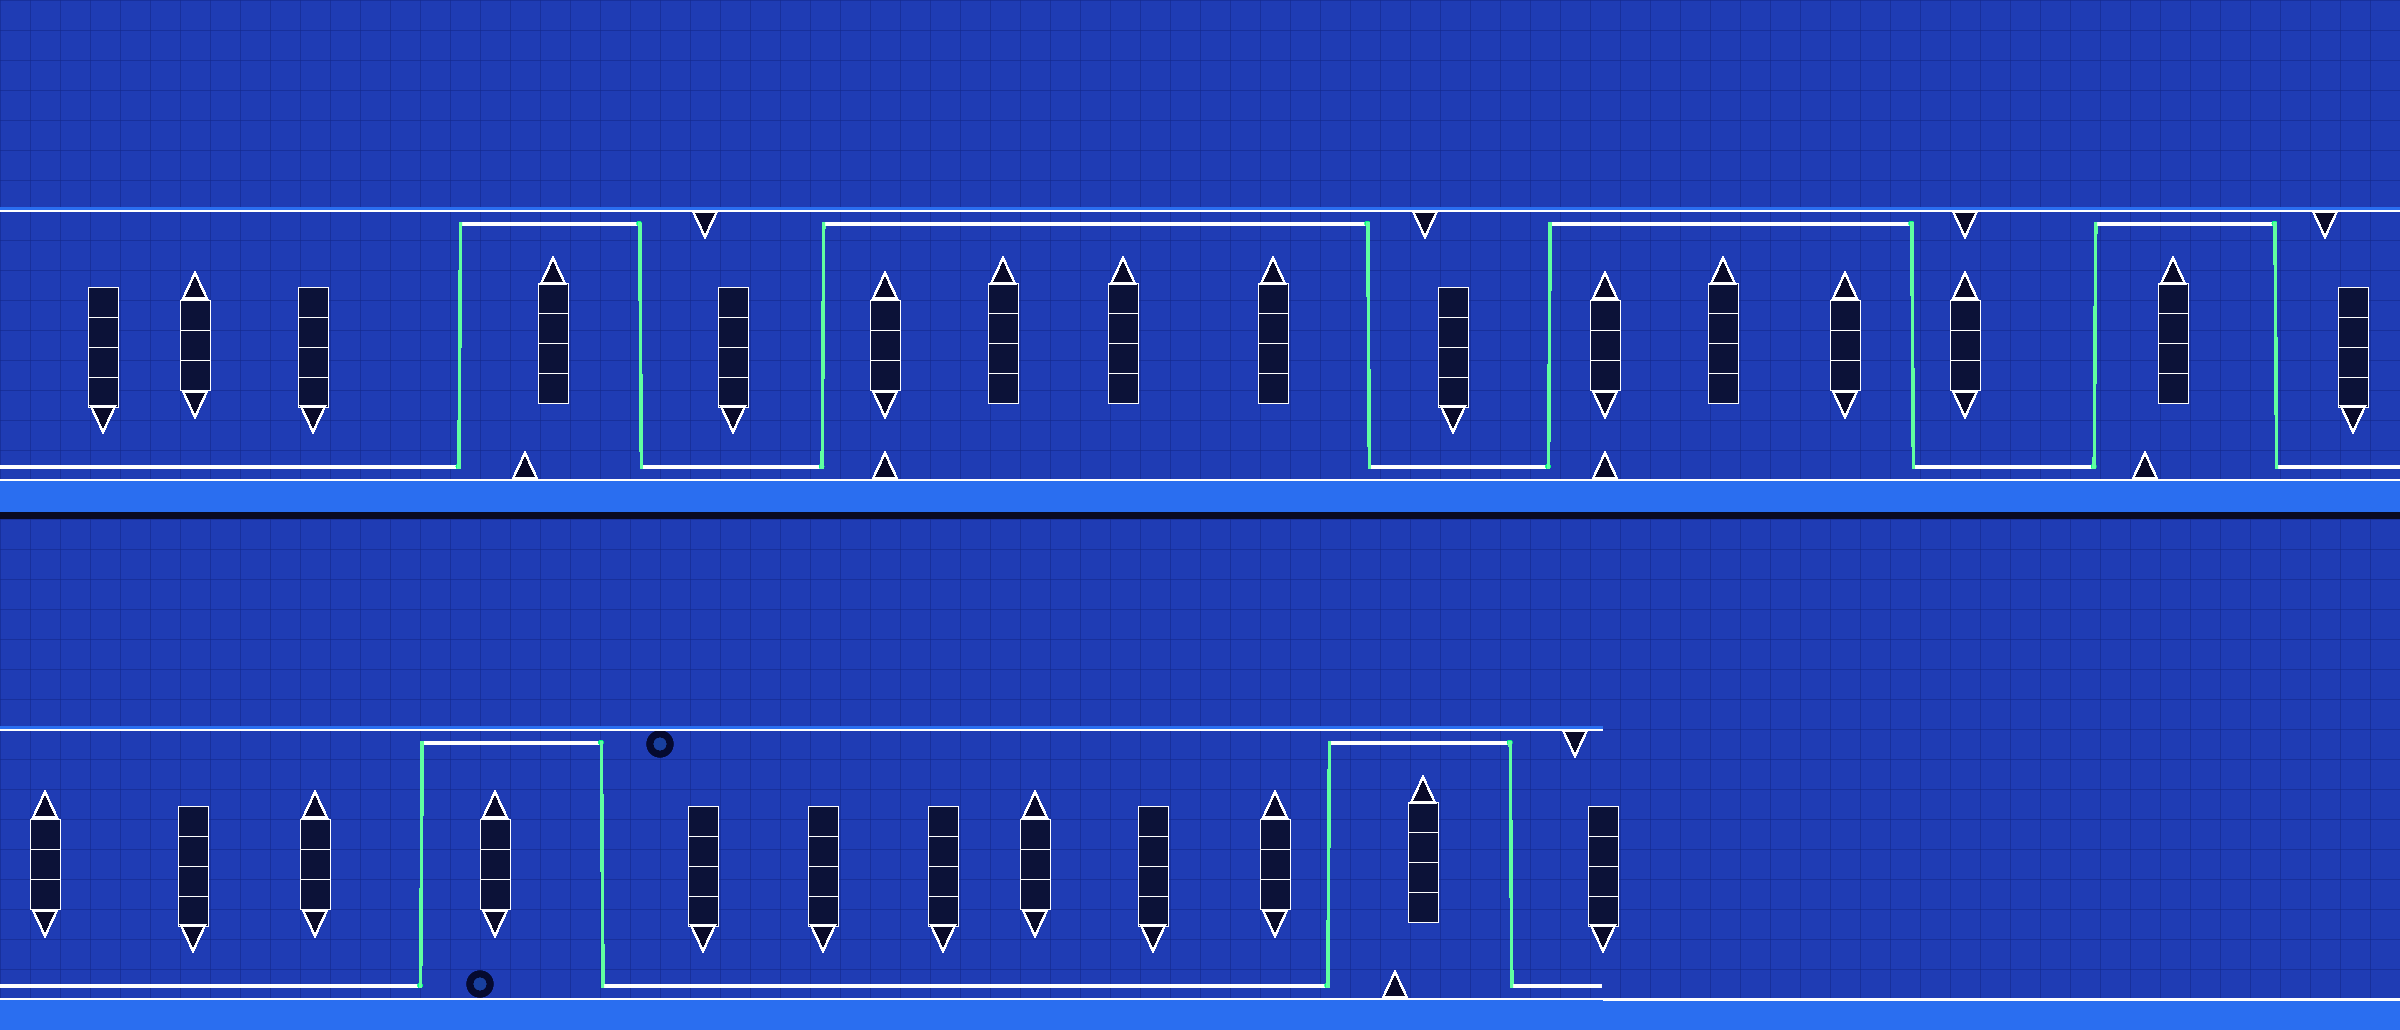
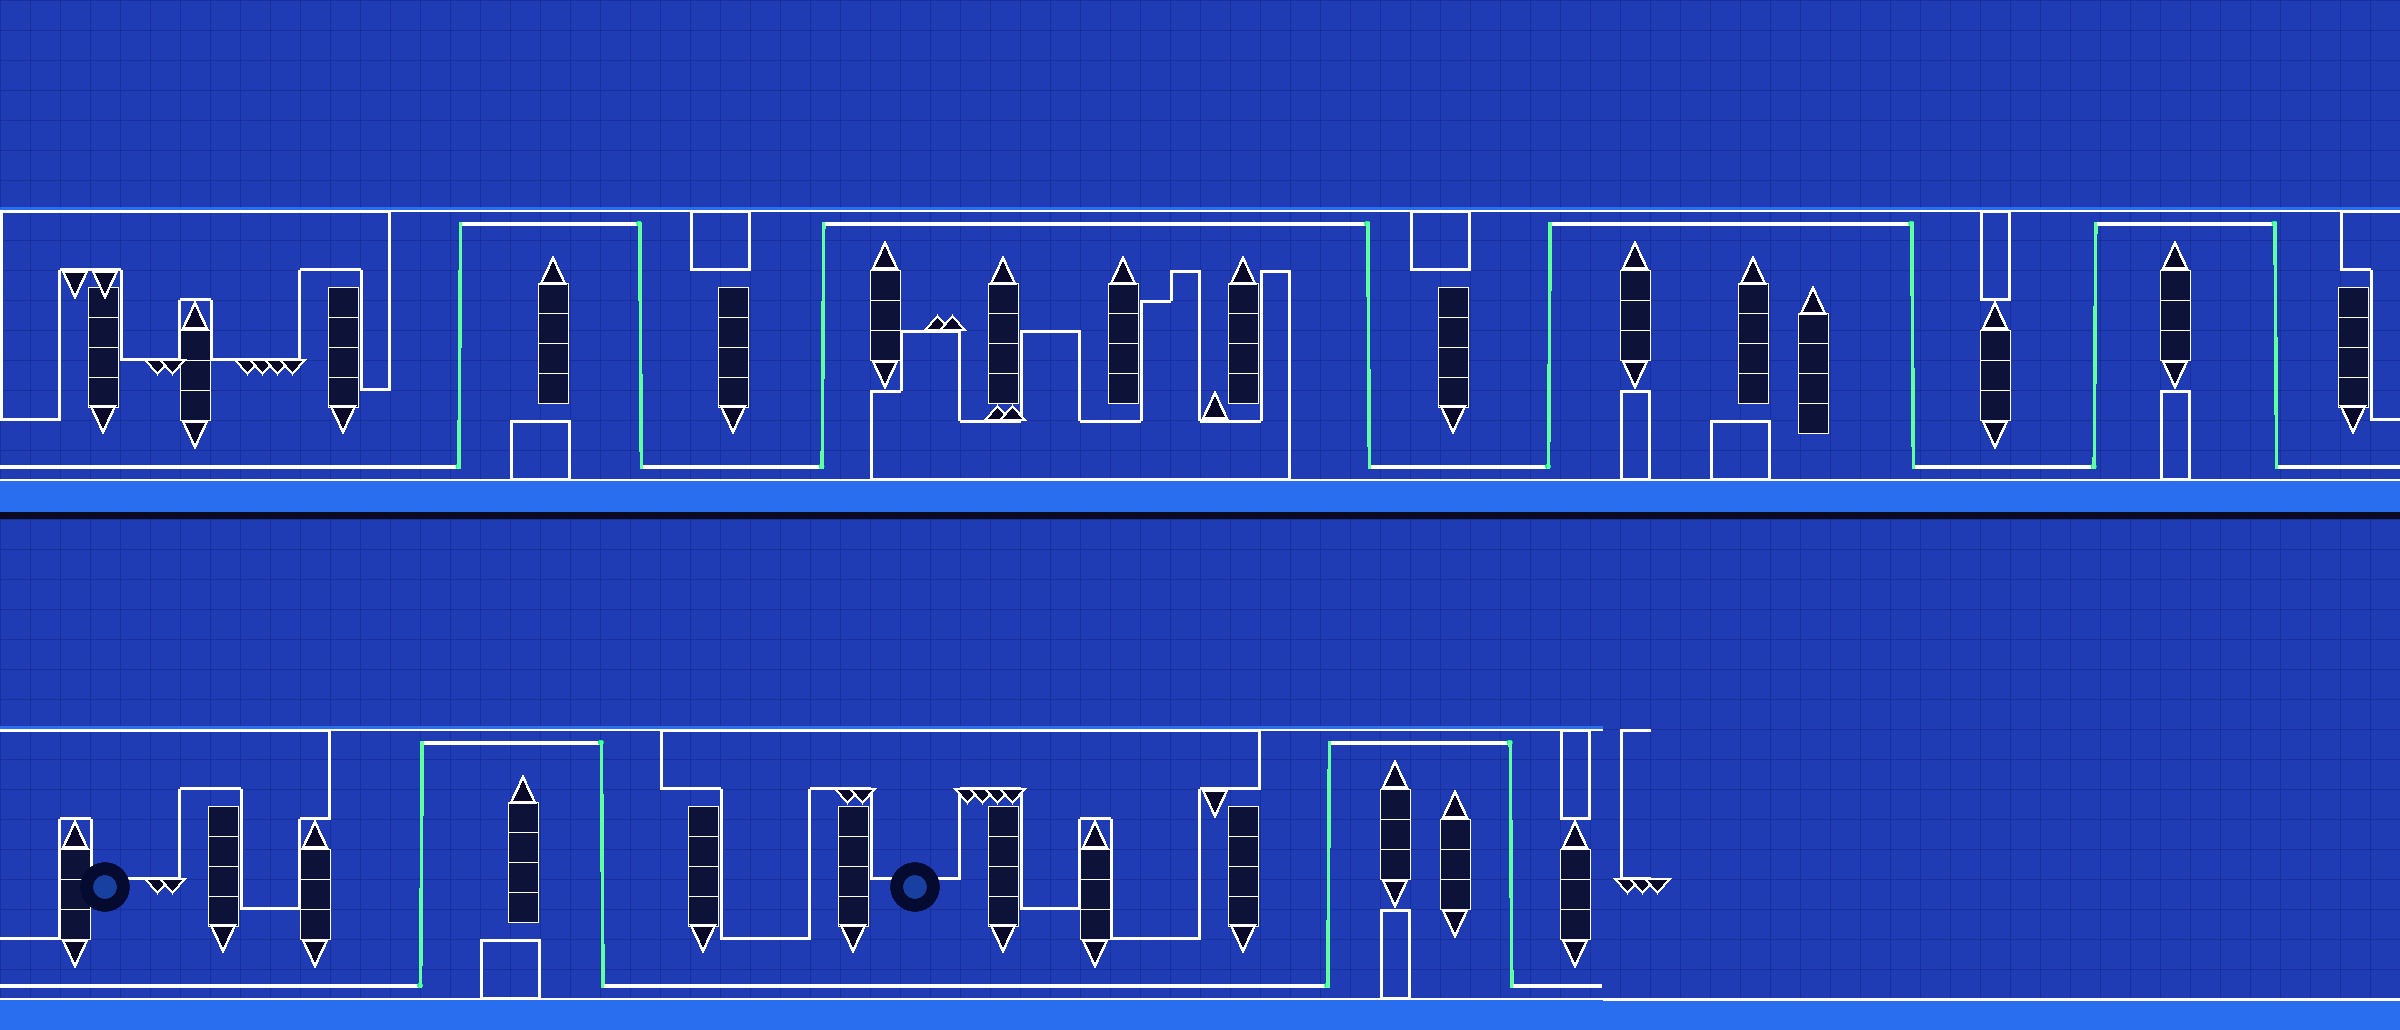
Docs and gallery for the 8 of 8 real-game round
Claude-Session: https://claude.ai/code/session_01KAvSEYyYmjhtKteB5Mcfsc

diff --git a/docs/LIMITATIONS.md b/docs/LIMITATIONS.md
@@ -7,20 +7,27 @@ Stated plainly, with what each one means in practice.
   and loads on Geode 5.11.2. The self test presses the editor button, opens every tab, generates,
   applies, undoes, opens Tap Along, and checks the recorder (every click caught at the right tick).
   It cannot judge how levels feel to play. macOS builds on CI but has not been run.
-- **Structures are lighter than top levels.** 50-80 hitbox objects per screen, about Bidal Wave's 80;
-  Tidal Wave has 194 and Grief 284 (`training/corpus/compare.py`).
+- **Structures are lighter than top levels.** 96-109 hitbox objects and 20-29 hazards per screen,
+  next to Bidal Wave (80 and 20) and xo (84 and 32). Bloodbath has 150, Tidal Wave 194 and Grief 284,
+  with 53-118 hazards, and saws are about 1 per screen against Tidal Wave's 31
+  (`training/corpus/compare.py`).
 - **Simulator vs the real game.** Checked against the real game with the in-game self test (a
   `selftest.txt` in the mod's save folder plays a generated level with its designed clicks and logs
   every physics step) and `simtrace`. Horizontal error is about 0.001 units over whole levels. Fixed
   from those runs: blue pads facing away, pad sizes, spider area height and teleports (a hazard on the
   way kills), robot boost after pads and orbs, dash through portals, portal bounds on a row boundary,
   flying modes leaving a bound, swing portal width, saw hits and the small saw's radius, flipped cubes
-  touching the ground. Generated levels keep 3 units of extra distance from hazards to absorb what is
+  touching the ground, the landing of a step counting before a mode portal, a swing's press on a floor,
+  where flying modes start. Generated levels keep 3 units of extra distance from hazards to absorb what is
   left, mostly one-tick pad timing.
-  - On the last round, 7 of 8 new levels reached 100% with their designed clicks in GD 2.2081 (the
-    other died at 60%). "Beatable" means beaten in the simulator, so play a level before trusting it.
-  - Still not exact: riding along slopes, rotated portals (the generator avoids both), and some spider
-    teleports.
+  - On the last round, 8 of 8 new levels reached 100% with their designed clicks in GD 2.2081, and the
+    round before 6 of 8 (both deaths fixed since). Seven of the last 8 traces stay within 2 units of
+    the simulator to the end of the level; the other drifted 2 units on a ship stretch and the run
+    still finished. These are bot runs that press on the exact tick. "Beatable" means beaten in the
+    simulator, so play a level before trusting it.
+  - Still not exact: riding along slopes, rotated portals (the generator avoids both), some spider
+    teleports, and a wave leaving into a swing while it rides a bound (one step of gravity, about 2
+    units until the next contact).
 - **Editor coordinates.** The ghost overlay and recorded positions assume GD's object layer is 90
   units above level-string coordinates. If the ghost path appears shifted, that constant
   (`kEditorYOffset`) is the one to change.

diff --git a/docs/GALLERY.md b/docs/GALLERY.md
@@ -1,17 +1,51 @@
 # Preview gallery
 
-Generated by `tools/make_gallery.sh` with the core renderer, drawn like the editor. The bot's path
-is white (green while the button is held). Every image is the same song and seed with a different
-structure style.
+Generated by `tools/make_gallery.sh` with the core renderer, drawn like the editor: blocks
+(default look; outline silhouettes with --look 0), spikes, saws, orbs and pads in their colours, portals as bars (gamemode green,
+speed orange, gravity/size blue), the floor and ceiling of flying stretches. The bot's path is
+white (green while the button is held). Each image is the whole level, wrapped into rows.
 
-## Rail
-![rail](gallery/style_rail.png)
+## Demo song, Insane, Rail structures
 
-## Slope
-![slope](gallery/style_slope.png)
+`alcli generate demo --seed 9 --difficulty 4 --structure 1 --crop 0:4000`
 
-## Compact
-![compact](gallery/style_compact.png)
+```
+BEATABLE (bot verified) | 310 clicks (275 forced, 2 dropped) | windows: min 46 ms, mean 148 ms
+longest gap without input: 3.28 s at 42.4 s | music alignment 94% | difficulty follows music: r = 0.67
+```
 
-## Spiky
-![spiky](gallery/style_spiky.png)
+![style_rail](gallery/style_rail.png)
+
+## Demo song, Insane, Slope structures
+
+`alcli generate demo --seed 9 --difficulty 4 --structure 2 --crop 0:4000`
+
+```
+BEATABLE (bot verified) | 310 clicks (275 forced, 2 dropped) | windows: min 46 ms, mean 148 ms
+longest gap without input: 3.28 s at 42.4 s | music alignment 94% | difficulty follows music: r = 0.67
+```
+
+![style_slope](gallery/style_slope.png)
+
+## Demo song, Insane, Compact structures
+
+`alcli generate demo --seed 9 --difficulty 4 --structure 3 --crop 0:4000`
+
+```
+BEATABLE (bot verified) | 310 clicks (276 forced, 2 dropped) | windows: min 46 ms, mean 148 ms
+longest gap without input: 3.28 s at 42.4 s | music alignment 94% | difficulty follows music: r = 0.67
+```
+
+![style_compact](gallery/style_compact.png)
+
+## Demo song, Insane, Spiky structures
+
+`alcli generate demo --seed 9 --difficulty 4 --structure 4 --crop 0:4000`
+
+```
+BEATABLE (bot verified) | 310 clicks (277 forced, 2 dropped) | windows: min 46 ms, mean 147 ms
+longest gap without input: 3.28 s at 42.4 s | music alignment 94% | difficulty follows music: r = 0.67
+```
+
+![style_spiky](gallery/style_spiky.png)
+

diff --git a/docs/GENERATOR_V2.md b/docs/GENERATOR_V2.md
@@ -52,8 +52,8 @@ style's spacing, repeat rate and saw rate.
 - Behind those lanes each stretch gets one connected band above and below the path, stepped in a
   rhythm, with the modules joined to it. This is what makes a corridor of solid shapes instead of
   separate shapes in the air. Each structure style has its own band thickness. Spikes, half spikes,
-  turned thorns and saws line the band's faces, more of them with the difficulty and the music; a
-  rotated hazard keeps its distance by the circle around it.
+  thorns leaning off the face and saws line the band's faces, more of them with the difficulty and the
+  music, never in a pile; a rotated hazard keeps its distance by the circle around it.
 - Wave parts are built to the click pattern, modelled on Grief: both walls follow every stroke of the
   zig-zag at one distance, the whole way, with slope pieces placed freely along the strokes (objects
   need no grid, so clicks can fall anywhere). Only the outline is built, nothing behind it. The gap comes from the difficulty, 60 units at Easy down to 20 at the top, and that gap

diff --git a/changelog.md b/changelog.md
@@ -9,11 +9,13 @@
 - Every stretch has a connected band above and below the path with hazards lining its faces, so
   structures read as a corridor (about twice the objects per screen)
 - Fixed: hard mini wave parts lost almost all their walls
+- Fixed: wave walls had holes around portals, and spikes piled up on each other and on saws
+- Fixed: a portal right after another portal could sit at the edge of the path and be missed
 - Gamemode stretches last a few seconds instead of 1-3 clicks
 - New menu rows: Structures, Speed (slow / normal / fast); outline look by default
 - Physics fixed against runs logged in GD: a blue pad facing the other way stays armed, the spider's
   area is 270 units high, a pad gives the robot no held boost, yellow, pink and blue pads are 25
-  wide
+  wide, a landing counts before a mode portal, a flipped cube dies a tenth of a unit into the floor
 - Recorder: ticks were doubled (the game counts two per physics step)
 - In-game self test: selftest.txt in the save folder plays a level with its designed clicks and logs
   every step
